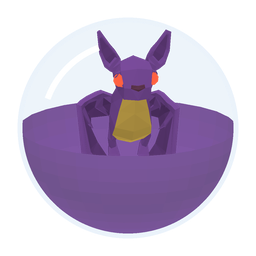
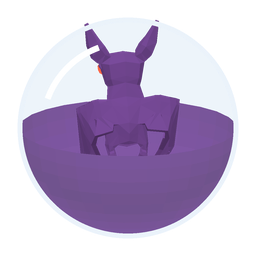
Ghost, bat and ghost skull face where the ball is going

Changed region(s): [[0.2812, 0.0625, 0.7188, 0.625]]

diff --git a/make_pack.py b/make_pack.py
@@ -312,28 +312,28 @@ mesh jackolantern_orange.glb size=106 scale=1.07,1,1.3 at=0,0,-51 rot=0,180,0
 mesh skull.glb size=106 at=0,0,-51 rot=0,180,0
 """,
     "ghost_ball.txt": """# A ghost (Quaternius, CC0, recoloured to glow by make_pack.py) floating inside a clear ball with a misty purple lower
-# half, looking back at the camera. It hovers, and flies faster as the ball speeds up.
+# half, facing where the ball is going. It hovers, and flies faster as the ball speeds up.
 material mist glass #b58cff opacity=0.42
 group shell
 bowl mist r=49.5 wall=0.8
 group ghost travel
-mesh ghost.glb size=76 at=0,0,-32 rot=0,180,0 anim=Fast_Flying rate=0.8 run=0.08 idle=Flying_Idle
+mesh ghost.glb size=76 at=0,0,-32 anim=Fast_Flying rate=0.8 run=0.08 idle=Flying_Idle
 """,
     "bat_ball.txt": """# A bat (Quaternius, CC0, recoloured with glowing red eyes) flapping inside a clear ball with a dark purple lower half,
-# looking back at the camera, flapping faster as the ball speeds up.
+# facing where the ball is going, flapping faster as the ball speeds up.
 material dusk glass #5a1a8a opacity=0.55
 group shell
 bowl dusk r=49.5 wall=0.8
 group bat travel
-mesh bat.glb size=74 at=0,0,-26 rot=0,180,0 anim=Flying rate=1 run=0.12
+mesh bat.glb size=74 at=0,0,-26 anim=Flying rate=1 run=0.12
 """,
     "ghost_skull_ball.txt": """# A ghost skull (Quaternius, CC0, recoloured to glow green) floating inside a clear ball with an eerie green lower
-# half, looking back at the camera. It hovers, and flies faster as the ball speeds up.
+# half, facing where the ball is going. It hovers, and flies faster as the ball speeds up.
 material eerie glass #4cff88 opacity=0.4
 group shell
 bowl eerie r=49.5 wall=0.8
 group skull travel
-mesh ghost_skull.glb size=76 at=0,0,-32 rot=0,180,0 anim=Fast_Flying rate=0.8 run=0.08 idle=Flying_Idle
+mesh ghost_skull.glb size=76 at=0,0,-32 anim=Fast_Flying rate=0.8 run=0.08 idle=Flying_Idle
 """,
     "brew_ball.txt": """# A witch's brew: a clear ball half full of glowing green potion that stays level as the ball rolls, with a swirl of
 # light turning on its surface, bubbles rising to pop, a skull and two eyeballs floating in it.
